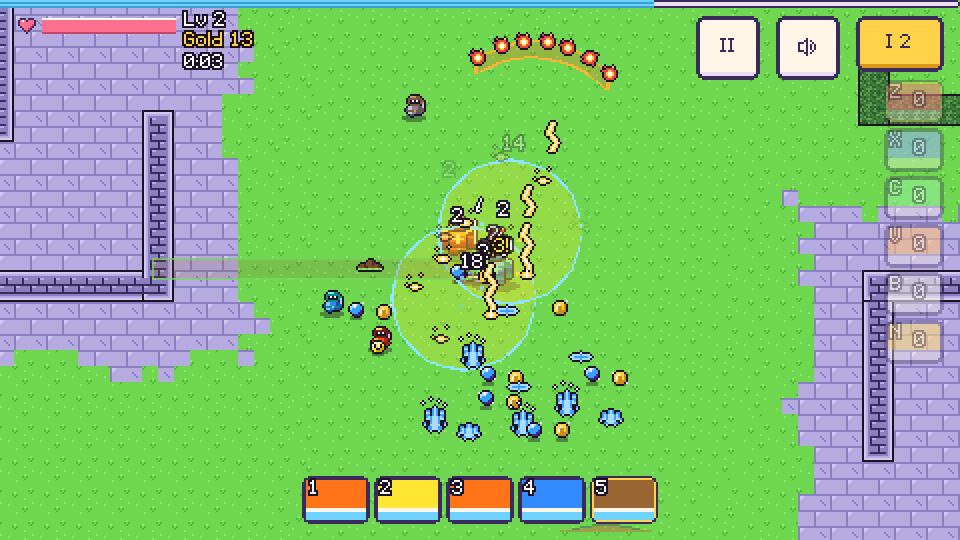
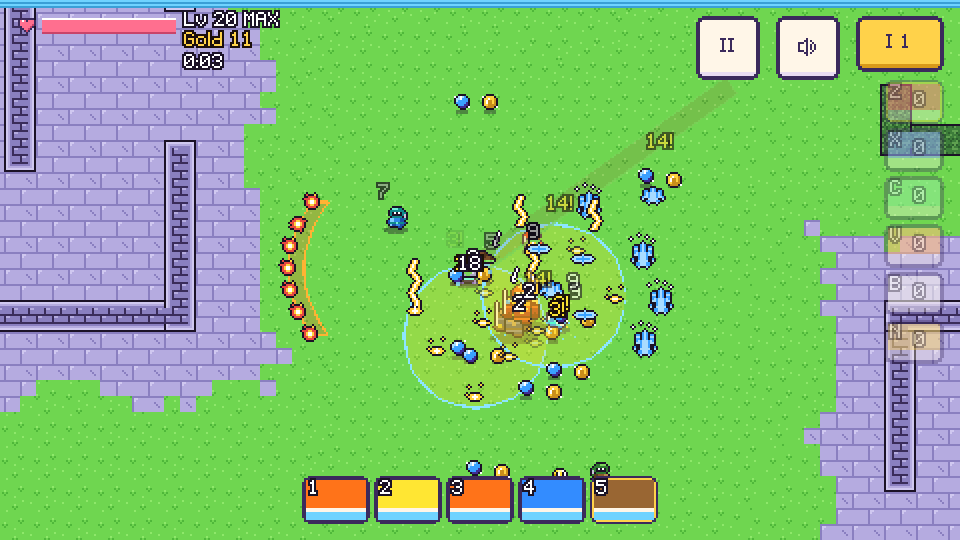
fix: rotate card swallows input, own concurrency group for PRs, a composed cover and level-20 screenshots

diff --git a/docs/architecture/front-door.md b/docs/architecture/front-door.md
@@ -38,7 +38,7 @@ The home screen, settings, pause, the tutorial and the run statistics. Moved wor
 **Version.** One setting, `config/version` in `project.godot` (`1.0.0`), read by `GameVersion.current()` for the Credits, the home screen's small `v1.0.0` (bottom right, under the button row) and the page text; `GameVersion.is_valid` demands `major.minor.patch`, and `test_itchio_page` fails if the page document disagrees. To release: bump the setting and the page's Version section together.
 **Licences.** The game is **all rights reserved** (the user's decision): `LICENSE` at the root (it names `addons/gut`, which keeps its own MIT licence and is not in the web build), a Credits line, and `licences.txt` written next to `index.html` by the packaging step from the engine itself (`LicenceFile.text()`: the rights line, `Engine.get_license_text()`, `get_license_info()` and `get_copyright_info()`), so the engine's and its bundled libraries' notices are never typed from memory. The Credits page holds about 20 ASCII lines, so it carries only short notices and points at the file; showing the full texts in the game would be a paged screen (not built). The UI font is ASCII only, so the line reads "Copyright", never the sign.
 **Icon and page head.** `art/sprites/app_icon.sprite` (32 by 32, a wizard with a scroll) is built like any sprite and the art tool also writes `assets/icon.png` through `IconBuilder`: the first frame scaled by **exactly 8**, nearest-neighbour (the one place the art is scaled, because a browser tab and an itch.io page need a normal image size). `config/icon` names it and the Web preset's `html/export_icon` puts it in the page. The preset's `html/head_include` adds a description, a theme colour and `og:title`, `og:description`, `og:type` (no `og:url` or `og:image`: they need one absolute address and a hosted file, and itch.io makes its own link card).
-**The rotate hint.** `RotateHint` (a `CanvasLayer` scene in `home.tscn` and `main.tscn`, layer 70, process Always) shows "Turn your phone sideways" only when `should_show(window_size, is_web, has_touch)` says so (a browser, a touch device, a window taller than wide). While it shows the game is paused through `GamePause`, and it un-pauses only what **it** paused (a pause menu or pick screen's pause is left alone). The card is hidden, not transparent, when not showing and ignores touches.
+**The rotate hint.** `RotateHint` (a `CanvasLayer` scene in `home.tscn` and `main.tscn`, layer 70, process Always) shows "Turn your phone sideways" only when `should_show(window_size, is_web, has_touch)` says so (a browser, a touch device, a window taller than wide). While it shows the game is paused through `GamePause`, and it un-pauses only what **it** paused (a pause menu or pick screen's pause is left alone). While it shows it swallows every input event (the pause menu, map select, shop and the like keep working while the game is paused and would act on blind taps), it gives its pause back if it leaves the tree while showing (a scene change), and it pauses again if something un-paused the game under it. When not showing it is hidden, not transparent, and never touches input.
 **The upload package.** The deploy workflow's build job also runs on pull requests (the deploy job does not), writes `licences.txt`, runs `tools/release/check_itch_zip.gd` (rules in `ItchZipRules`: `index.html` and `licences.txt` at the root, at most 1000 files, 200 MB per file, 500 MB in all, no names that differ only by case; itch.io's own documentation, checked 2026-11-26) and attaches `scrollsmith-survivors-<version>-itch.zip` (made from inside `build/web`, so `index.html` is at the zip's root) as the artifact `itch-web-zip` for 14 days. No secret and no `butler`: the user downloads, checks and uploads it by hand (the steps are in `docs/release-planning/itchio-notes.md`). `ItchZipRules` and `LicenceFile` are build-time only and listed in `test_export_filter`'s `BUILD_TIME_ONLY`.
-**Page and pictures.** `docs/release-planning/itchio-page.md` is everything the user pastes into the itch.io form (a test keeps its version, controls table and embed size in step with the game); `docs/release-planning/promo/` holds a 630 by 500 cover, five 960 by 540 screenshots (real frames at exactly 2x) and a looping GIF, all from the real game with the HUD only hidden for the cover. They were made with throwaway scripts (a real-window Godot script that stages a run with all five spells and a bot, and a Pillow script in the gitignored `venv`).
-**Measured (2026-11-26, laptop on battery).** A pack exported with the Web preset is 2.1 MB; with the published engine files and `licences.txt` the build is 10 files and 40.1 MB, and its zip 11.5 MB. The real export and zip are produced by the workflow on the pull request. Soak test passes (683 nodes in every round, 0 orphans).
+**Page and pictures.** `docs/release-planning/itchio-page.md` is everything the user pastes into the itch.io form (a test keeps its version, controls table and embed size in step with the game); `docs/release-planning/promo/` holds a 630 by 500 cover, five 960 by 540 screenshots (real frames at exactly 2x) and a looping GIF, the screenshots and the GIF from the real game (a run staged at level 20, so five spell slots are legitimately open), the cover a poster composed from the game's own stage engine and sprites at 4x with the title banner at 2x. They were made with throwaway scripts (a real-window Godot script that stages a run with all five spells and a bot, and a Pillow script in the gitignored `venv`).
+**Measured (2026-11-26, laptop on battery).** A pack exported with the Web preset is 2.1 MB; with the published engine files and `licences.txt` the build is 10 files and 40.1 MB, and its zip 11.5 MB. The real export and zip are produced by the workflow on the pull request (a pull request run has a concurrency group of its own, so it never queues in the Pages group). Soak test passes (683 nodes in every round, 0 orphans).

diff --git a/development-log.md b/development-log.md
@@ -796,9 +796,10 @@ Design `docs/sprints/sprint-18-design.md`, plan `docs/superpowers/plans/2026-11-
 
 Design `docs/sprints/sprint-15c-design.md`, plan `docs/superpowers/plans/2026-11-26-sprint-15c-release-prep.md`. The suite went 2660 to 2711.
 
-- **Built:** version `1.0.0` (`GameVersion`, Credits, a small home-screen label); the rights line, `LICENSE` and a `licences.txt` written from the engine's own notices (`LicenceFile`); an icon (`app_icon.sprite` built by the art tool, written as a PNG at exactly 8x) and a `head_include` for the web page; a `RotateHint` that pauses the game while a phone is upright and un-pauses only what it paused; the workflow now also runs on pull requests (no deploy), checks the build against itch.io's limits (`ItchZipRules`, `tools/release/check_itch_zip.gd`) and attaches the zip as an artifact; the page text (`itchio-page.md`) and a cover, five screenshots and a GIF made from the real game.
+- **Built:** version `1.0.0` (`GameVersion`, Credits, a small home-screen label); the rights line, `LICENSE` and a `licences.txt` written from the engine's own notices (`LicenceFile`); an icon (`app_icon.sprite` built by the art tool, written as a PNG at exactly 8x) and a `head_include` for the web page; a `RotateHint` that pauses the game while a phone is upright and un-pauses only what it paused; the workflow now also runs on pull requests (no deploy), checks the build against itch.io's limits (`ItchZipRules`, `tools/release/check_itch_zip.gd`) and attaches the zip as an artifact; the page text (`itchio-page.md`) and five screenshots and a GIF from the real game plus a cover composed from the game's own sprites (the user rejected the first cover, a boss-fight frame, as not reflecting the game).
 - **Rulings:** the full licence texts live in a file in the build, not a Credits screen (the page holds about 20 lines); GUT needs no notice in the game (it is excluded from the export); the copyright line has no sign (ASCII font); the page head has no `og:url` or `og:image`; the Pages build stays live as the test build.
 - **Verified against itch.io's own pages:** 1000 files, 200 MB per file, 500 MB in all, `index.html` at the root, case-sensitive names; the draft state is called Private; cover 630 by 500; 3 to 5 screenshots; up to 10 tags. Not found on those pages: a GIF size limit (the GIF is kept under 1 MB).
 - **Measured (laptop on battery):** an exported pack is 2.1 MB; with the published engine files and `licences.txt` the build is 10 files and 40.1 MB and its zip 11.5 MB. Soak test passes (683 nodes, 0 orphans, static 49.6 MB). The real export and zip come from the workflow on the pull request; no export templates are installed here.
 - **Real window:** the home screen with the version, the rotate card (shown, hidden, a touch on Shop afterwards), the icon at its real size, every picture.
+- **Review fixes (whole-branch review):** the rotate card now swallows input while showing (a tap on the map select behind it could start a run frozen), gives back its pause when freed while showing and re-pauses if something un-paused under it; pull request runs got their own concurrency group (they could cancel a waiting Pages deploy); the page no longer calls the merchant roaming; the screenshots were retaken at level 20 so five spell slots are legitimately open.
 - **Left for the user:** the sound check on the live site and in itch.io's frame, a phone playtest, creating the itch.io page, a Private upload and the publish.

diff --git a/docs/release-planning/itchio-page.md b/docs/release-planning/itchio-page.md
@@ -41,7 +41,7 @@ Keys 1 to 5 pick a spell slot and Z X C V B N drink the six potions.
 - Forge your own spells from scrolls: four elements, four shapes, many buffs
 - Three maps, each with its own look, enemies and boss
 - Bosses that warn you before every attack, so a fast enough player can always dodge
-- A 20-level wizard, an equipment shop and potions from a roaming merchant
+- A 20-level wizard, an equipment shop and potions from the merchant
 - Twelve achievements, with a starting spell for each boss you defeat
 - Keyboard and mouse, controller and touch controls
 - Bright pixel art and chiptune music, all made for the game
@@ -65,9 +65,9 @@ Page visibility: Private while testing, then Public. "Save & view page" previews
 Cover image: 630 x 500 (itch.io's minimum is 315 x 250 at the same ratio). Screenshots: 3 to 5.
 
 ## Pictures
-All are frames of the real game (nothing mocked up), in `promo/`. Screenshots are the real 480 x 270 frames at exactly 2x, nearest-neighbour (960 x 540).
-- cover.png (630 x 500): a boss fight's warning rings with the title banner on top, both at 2x. Upload as the cover image.
-- shot_1.png: the home screen. shot_2.png: a fight with five spells at once. shot_3.png: crafting a spell at the Lectern. shot_4.png: a boss fight with its attack warnings. shot_5.png: the map select.
+The screenshots and the GIF are frames of the real game (a run staged at level 20 so all five spell slots are open), in `promo/`; the cover is composed from the game's own sprites. Screenshots are the real 480 x 270 frames at exactly 2x, nearest-neighbour (960 x 540).
+- cover.png (630 x 500): the wizard casting fire and lightning at a horde and the Tempest Dragon, drawn with the game's own stage engine and sprites at 4x, with the title banner at 2x. A composed poster, not a play frame. Upload as the cover image.
+- shot_1.png: the home screen. shot_2.png: a fight at level 20 with five spells (a wizard at the top of the level track). shot_3.png: crafting a spell at the Lectern. shot_4.png: a boss fight with its attack warnings. shot_5.png: the map select.
 - fight.gif (480 x 270, 60 frames, under 1 MB): a few seconds of a fight, looping. Use it as a screenshot or in the description.
 
 ## Version

diff --git a/docs/sprints/sprint-15c-design.md b/docs/sprints/sprint-15c-design.md
@@ -1,6 +1,6 @@
 # Sprint 15c Design: Release preparation (the itch.io launch)
 
-**Status:** Implemented (Sprint 15c). Deviations: there is no separate Licences screen (as section 5 says); itch.io calls a draft page "Private" (verified); the cover is a clean boss-fight frame with the banner, made without the HUD; the version text is bottom right of the home screen; the real export and zip are produced by the workflow on the pull request (no export templates are installed here, so a pack export and the published engine files were used to measure); see `docs/architecture/front-door.md`. Branch `sprint-15c-release-prep`.
+**Status:** Implemented (Sprint 15c). Deviations: there is no separate Licences screen (as section 5 says); itch.io calls a draft page "Private" (verified); the cover is a poster composed from the stage engine and the game's sprites (the user rejected a first cover made from a boss-fight frame); the version text is bottom right of the home screen; the real export and zip are produced by the workflow on the pull request (no export templates are installed here, so a pack export and the published engine files were used to measure); see `docs/architecture/front-door.md`. Branch `sprint-15c-release-prep`.
 
 The parked third part of Sprint 15 (`docs/release-planning/`), now unparked. Scope comes from the user's answers in conversation; decisions marked "my call" are mine and open to correction.
 
